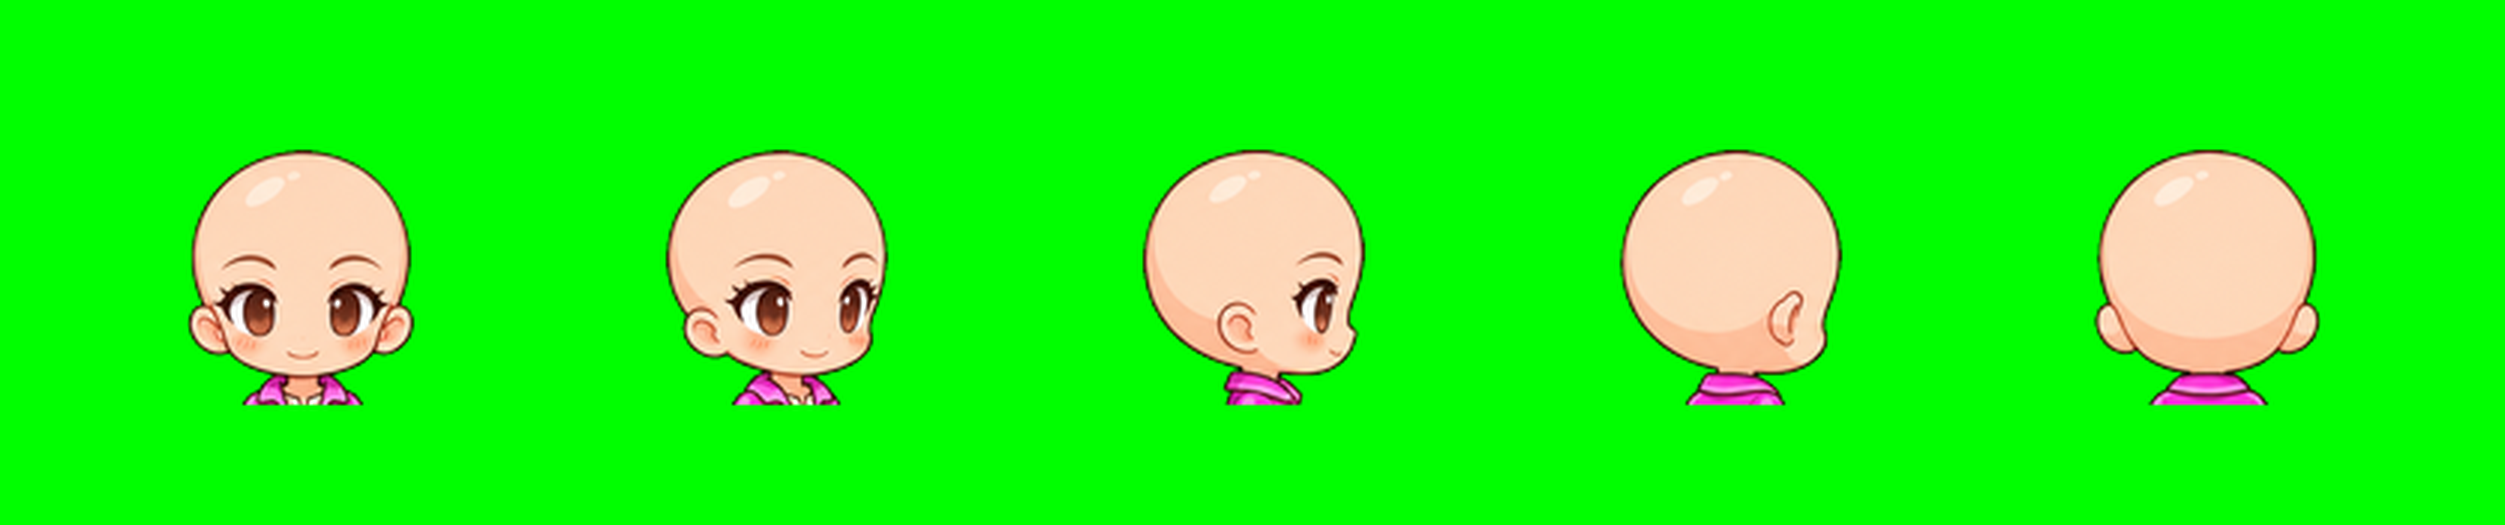
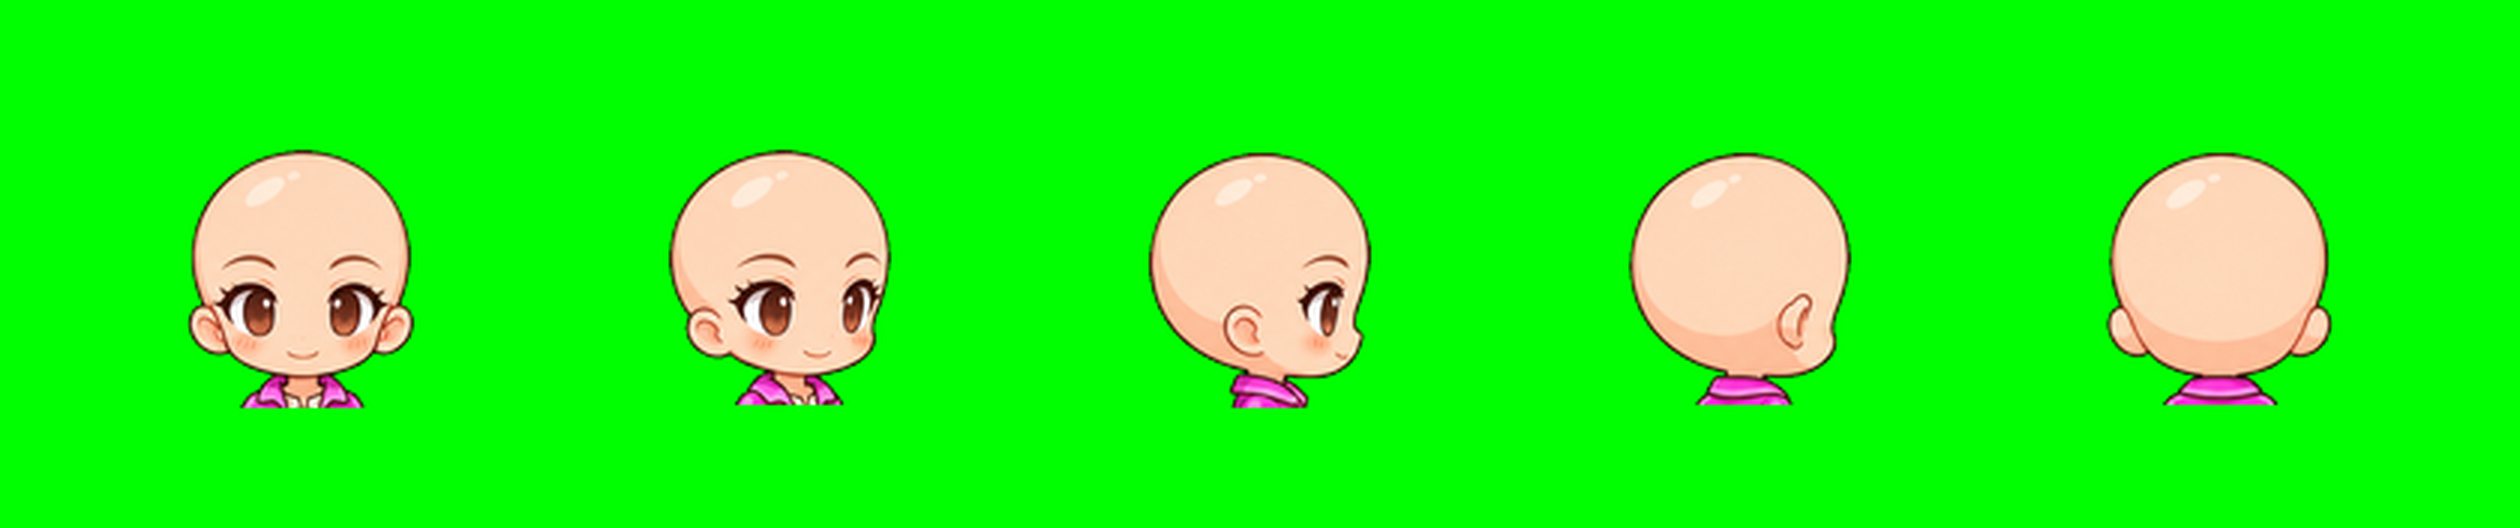
fix(tools): skull-based head anchor ignores raised fists; brief readiness check

diff --git a/Tools/build-hero-layered-sheets.py b/Tools/build-hero-layered-sheets.py
@@ -19,6 +19,7 @@ from importlib import import_module
 from pathlib import Path
 
 import numpy as np
+from scipy import ndimage
 from PIL import Image, ImageDraw
 
 sys.path.insert(0, str(Path(__file__).resolve().parent))
@@ -53,11 +54,27 @@ def place(fig, scale):
     return cell
 
 
-def head_anchor(cell):
-    """Skull top centre and skull width of a bald figure in a cell: widest solid run in the band 6-30 % below the top."""
-    al = np.asarray(cell)[..., 3] > 128
+def skull_mask(cell):
+    """Bald skull + face: the largest skin-coloured blob in the upper 60 % of the figure. Gloves are brown leather, so a
+    fist raised above the head is not skin and cannot be taken for the skull top (attack3 frame 1)."""
+    a = np.asarray(cell).astype(int)
+    r, g, b, al = a[..., 0], a[..., 1], a[..., 2], a[..., 3] > 128
+    skin = al & (r > 200) & (g > 150) & (b > 110) & (r - b > 25) & (r - b < 110)
     ys = np.nonzero(al.any(1))[0]
-    top, h = ys[0], ys[-1] - ys[0]
+    skin[ys[0] + int((ys[-1] - ys[0]) * 0.6):] = False
+    lab, n = ndimage.label(ndimage.binary_closing(skin, iterations=2))
+    if n == 0:
+        return al
+    sizes = ndimage.sum(skin, lab, range(1, n + 1))
+    return lab == (int(np.argmax(sizes)) + 1)
+
+
+def head_anchor(cell):
+    """Skull top centre and skull width of a bald figure in a cell: widest run of the skull blob in the band 6-30 %
+    of the skull height below its top (outline pixels around the skin are added back by a 2 px grow)."""
+    al = ndimage.binary_dilation(skull_mask(cell), iterations=2)
+    ys = np.nonzero(al.any(1))[0]
+    top, h = ys[0], (ys[-1] - ys[0]) * 2.2  # the skull blob is about 45 % of a figure's height
     best, bx = 0, CELL_W / 2
     for y in range(top + int(h * 0.06), top + int(h * 0.3)):
         xs = np.nonzero(al[y])[0]
@@ -123,6 +140,7 @@ def write(g):
     out = ART / "sheets" / g
     out.mkdir(parents=True, exist_ok=True)
     anchors = {}
+    idle_w = {d: head_anchor(frames["idle"][d][0])[2] for d in DIRS if d in frames["idle"]}
     for anim, by_dir in frames.items():
         missing = [d for d in DIRS if d not in by_dir]
         if missing:
@@ -135,7 +153,8 @@ def write(g):
             anchors[anim][d] = []
             for k, cell in enumerate(by_dir[d]):
                 sheet.alpha_composite(cell, (k * CELL_W, r * CELL_H))
-                anchors[anim][d].append(head_anchor(cell))
+                x, top, w = head_anchor(cell)
+                anchors[anim][d].append([x, top, min(w, round(idle_w.get(d, w) * 1.1))])  # raised bare arms widen the skin blob
         sheet.save(out / f"{anim}.png")
         print(f"{g} {anim}: {n} frames x 8 directions")
     (out / "head-anchors.json").write_text(json.dumps(anchors), encoding="utf-8")

diff --git a/plans/261119-0500-layered-hero-art/brief.md b/plans/261119-0500-layered-hero-art/brief.md
@@ -32,7 +32,8 @@ Work context: D:\zenoniaClone (branch `unity`). Reports: D:\zenoniaClone\plans\r
 window.__sizes = window.__sizes || new Set();
 window.__send = async (P, needImgs) => { const ed=[...document.querySelectorAll('form [contenteditable="true"]')].pop(); ed.focus(); document.execCommand('selectAll'); document.execCommand('delete'); document.execCommand('insertText', false, P); await new Promise(r=>setTimeout(r,1500)); const imgs=document.querySelectorAll('form img').length; const ok = ed.innerText.length===P.length && imgs>=needImgs && document.querySelectorAll('form circle').length===0 && location.href.includes('6afe1ebe'); if(ok){ document.querySelector('form button[aria-label="Send"]').click(); } await new Promise(r=>setTimeout(r,3000)); return [ok, imgs, location.href]; };
 window.__bottom = async () => { [...document.querySelectorAll('*')].filter(e=>{const s=getComputedStyle(e);return /(auto|scroll)/.test(s.overflowY) && e.scrollHeight>e.clientHeight+50;}).forEach(e=>e.scrollTop=e.scrollHeight); await new Promise(r=>setTimeout(r,1500)); };
-window.__ready = () => { const t=document.body.innerText.slice(-400); return t.includes('Response complete') && !/Creating image|\d+%/.test(t); };
+// "Response complete" belongs to the PREVIOUS answer while an image is still drawing (batch 1): wait for no Stop button, no progress text
+window.__ready = () => { const t=document.body.innerText.slice(-400); return !document.querySelector('button[aria-label*="Stop"], button[data-testid="stop-button"]') && !/Creating image|\d+%|Thinking/.test(t); };
 window.__grab = async (base) => { await window.__bottom(); const gen=[...document.querySelectorAll('main img')].filter(i=>i.alt.startsWith('Generated') && i.naturalWidth>500); const out=[]; let k=0; for(const im of gen){ const b=await fetch(im.src).then(r=>r.blob()); if(window.__sizes.has(b.size)) continue; window.__sizes.add(b.size); k++; const a=document.createElement('a'); a.href=URL.createObjectURL(b); a.download= base+'-n'+k+'.png'; document.body.appendChild(a); a.click(); out.push(b.size); await new Promise(r=>setTimeout(r,1200)); } return [out, document.body.innerText.includes('Which image do you like more')]; };
 ```
 
